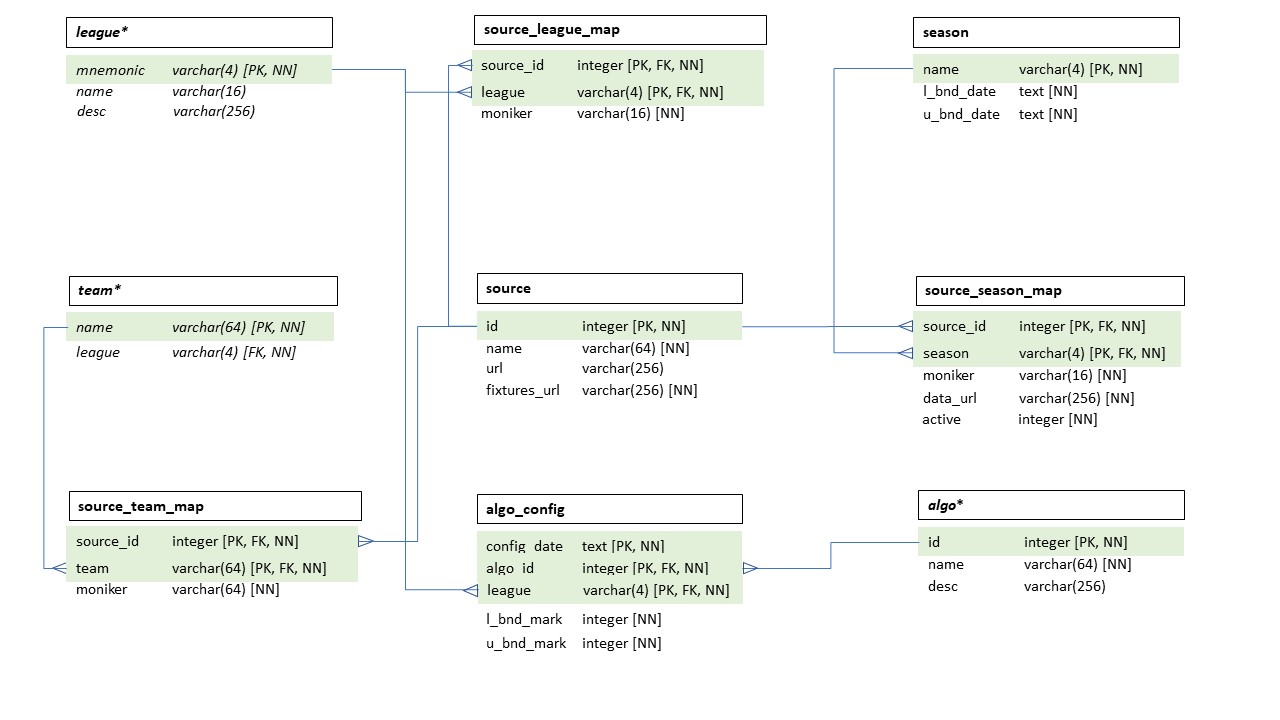
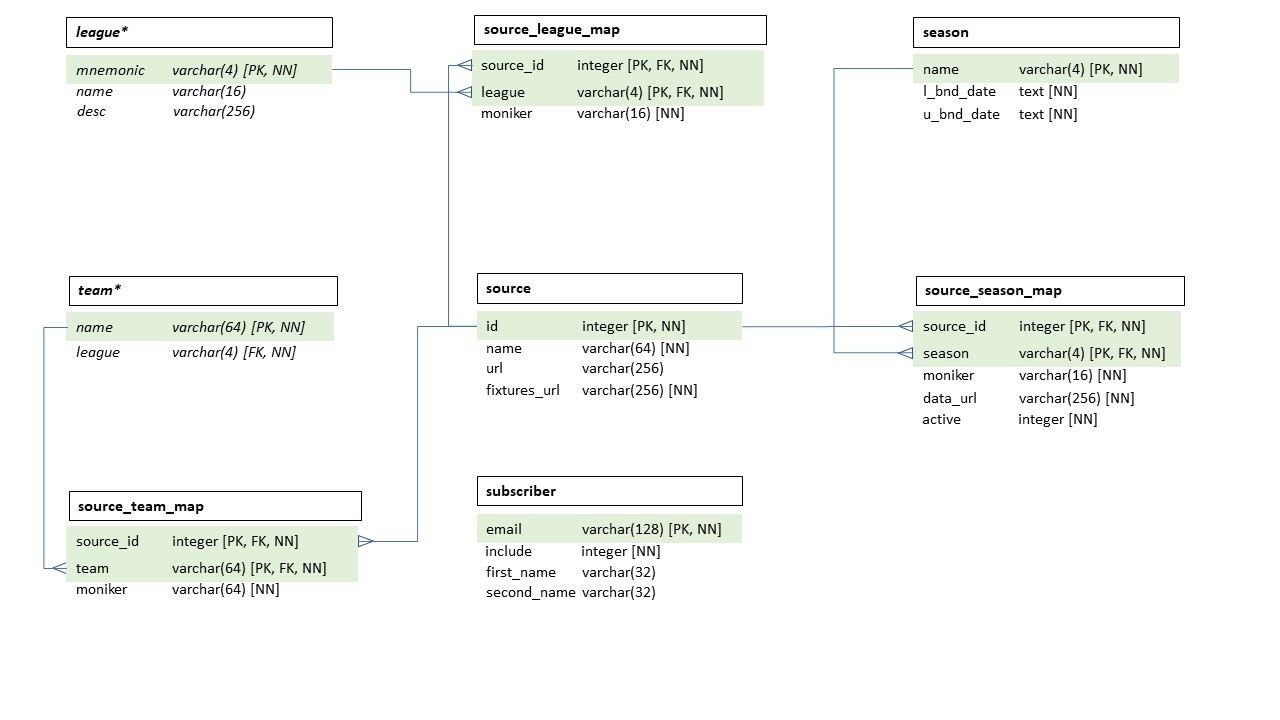
Added subscriber table and change mailing

Changed region(s): [[0.3438, 0.6722, 0.5938, 0.9167], [0.7188, 0.6722, 0.9375, 0.825]]

diff --git a/sweeper/dbos/tests/test_subscriber.py b/sweeper/dbos/tests/test_subscriber.py
@@ -1,0 +1,179 @@
+# coding: utf-8
+
+import os
+from datetime import datetime
+from unittest import TestCase
+from unittest.mock import MagicMock, call
+from dataclasses import FrozenInstanceError
+from sweeper.dbos.subscriber import Subscriber, SubscriberKeys, SubscriberValues
+from shimbase.database import Database, AdhocKeys
+from shimbase.sqlite3impl import SQLite3Impl
+
+class TestSubscriber(TestCase):
+    """Subscriber object tests"""
+    db = None
+
+    @classmethod
+    def setUpClass(cls):
+        createName = 'c:/Users/Mach1/Documents/Projects/sweeper/db/createdb.sql'
+        testDataName = 'c:/Users/Mach1/Documents/Projects/sweeper/db/dbos/' + '*_data.sql' 
+        dbName = './db/test.db'
+        os.system('cat {} | sqlite3 {}'.format(createName, dbName))
+        os.system('cat {} | sqlite3 {}'.format(testDataName, dbName))
+        cls.db = Database(dbName, SQLite3Impl())
+
+    @classmethod
+    def tearDownClass(cls):
+        cls.db.close()
+
+    def setUp(self):
+        pass
+
+    def tearDown(self):
+        pass
+
+    def test_keys_Immutablility(self):
+        keys =SubscriberKeys('subscriber email TD')
+
+        with self.assertRaises(FrozenInstanceError) as cm:
+            keys.email = 'Something New'
+            
+        self.assertIn('cannot assign to field', cm.exception.args[0])
+
+    def test_keys_adhoc(self):
+        l = Subscriber.createAdhoc(None)
+        self.assertEqual(l.getTable(), 'subscriber')
+        self.assertTrue(l._keys.getFields() is None)
+
+    def test_create(self):
+        obj = Subscriber.create(('subscriber email TD', 98, 'subscriber first_name TD', 'subscriber second_name TD'))
+
+        self.assertEqual(obj.getEmail(), 'subscriber email TD')
+         
+        self.assertEqual(obj.getInclude(), 98)
+        self.assertEqual(obj.getFirst_Name(), 'subscriber first_name TD')
+        self.assertEqual(obj.getSecond_Name(), 'subscriber second_name TD')
+         
+
+    def test_repr(self):
+        obj = Subscriber('subscriber email TD', 98, 'subscriber first_name TD', 'subscriber second_name TD')
+        self.assertEqual(str(obj), "subscriber : Keys {'email': 'subscriber email TD'} : Values {'include': 98, 'first_name': 'subscriber first_name TD', 'second_name': 'subscriber second_name TD'}")
+
+    def test_select(self):
+        objs = TestSubscriber.db.select(Subscriber())
+        self.assertEqual(len(objs), 2)
+        self.assertEqual(objs[0].getEmail(), 'subscriber email TD')
+        
+        self.assertEqual(objs[0].getInclude(), 98)
+        self.assertEqual(objs[0].getFirst_Name(), 'subscriber first_name TD')
+        self.assertEqual(objs[0].getSecond_Name(), 'subscriber second_name TD')
+        
+        self.assertEqual(objs[1].getEmail(), 'subscriber email TD2')
+        
+        self.assertEqual(objs[1].getInclude(), 99)
+        self.assertEqual(objs[1].getFirst_Name(), 'subscriber first_name TD2')
+        self.assertEqual(objs[1].getSecond_Name(), 'subscriber second_name TD2')
+        
+        
+        objs = TestSubscriber.db.select(Subscriber('subscriber email TD'))
+        self.assertEqual(len(objs), 1)
+        self.assertEqual(objs[0].getEmail(), 'subscriber email TD')
+        
+        self.assertEqual(objs[0].getInclude(), 98)
+        self.assertEqual(objs[0].getFirst_Name(), 'subscriber first_name TD')
+        self.assertEqual(objs[0].getSecond_Name(), 'subscriber second_name TD')
+        
+
+        objs = TestSubscriber.db.select(Subscriber.createAdhoc({'include': 98, 'first_name': 'subscriber first_name TD', 'second_name': 'subscriber second_name TD'}))
+        self.assertEqual(len(objs), 1)
+        self.assertEqual(objs[0].getEmail(), 'subscriber email TD')
+        
+        self.assertEqual(objs[0].getInclude(), 98)
+        self.assertEqual(objs[0].getFirst_Name(), 'subscriber first_name TD')
+        self.assertEqual(objs[0].getSecond_Name(), 'subscriber second_name TD')
+        
+
+    def test_update(self):
+        # Disable Foreign Keys checks for this test
+        TestSubscriber.db.disableForeignKeys()
+
+        with TestSubscriber.db.transaction() as t:
+            TestSubscriber.db.upsert(
+                    Subscriber('subscriber email TD', 100, 'subscriber first_name TD UPD', 'subscriber second_name TD UPD'))
+            objs = TestSubscriber.db.select(Subscriber('subscriber email TD'))
+
+            self.assertEqual(len(objs), 1)
+            self.assertEqual(objs[0].getEmail(), 'subscriber email TD')
+            
+
+            d = eval("{'include': 100, 'first_name': 'subscriber first_name TD UPD', 'second_name': 'subscriber second_name TD UPD'}")
+            for k, v in d.items():
+                self.assertEqual(
+                        objs[0].__getattribute__('get' + k.title())(), v)
+
+            # force a rollback
+            t.fail()
+
+        with TestSubscriber.db.transaction() as t:
+            subscriber = TestSubscriber.db.select(Subscriber('subscriber email TD'))[0]
+            for k, v in d.items():
+                subscriber.__getattribute__('set' + k.title())(v)
+
+            TestSubscriber.db.upsert(subscriber)
+
+            objs = TestSubscriber.db.select(Subscriber('subscriber email TD'))
+            self.assertEqual(len(objs), 1)
+            self.assertEqual(objs[0].getEmail(), 'subscriber email TD')
+            
+
+            for k, v in d.items():
+                self.assertEqual(
+                        objs[0].__getattribute__('get' + k.title())(), v)
+
+            # force a rollback
+            t.fail()
+
+    def test_insert(self):
+        # Disable Foreign Keys checks for this test
+        TestSubscriber.db.disableForeignKeys()
+
+        with TestSubscriber.db.transaction() as t:
+            TestSubscriber.db.upsert(
+                    Subscriber('subscriber email TD INS', 100, 'subscriber first_name TD UPD', 'subscriber second_name TD UPD'))
+            objs = TestSubscriber.db.select(Subscriber())
+
+            self.assertEqual(len(objs), 3)
+
+            d = eval("{'email': 'subscriber email TD INS'}")
+            for k, v in d.items():
+                self.assertEqual(
+                        objs[2].__getattribute__('get' + k.title())(), v)
+
+            d = eval("{'include': 100, 'first_name': 'subscriber first_name TD UPD', 'second_name': 'subscriber second_name TD UPD'}")
+            for k, v in d.items():
+                self.assertEqual(
+                        objs[2].__getattribute__('get' + k.title())(), v)
+
+            # force a rollback
+            t.fail()
+
+    def test_delete(self):
+        # Disable Foreign Keys checks for this test
+        TestSubscriber.db.disableForeignKeys()
+
+        with TestSubscriber.db.transaction() as t:
+            TestSubscriber.db.delete(Subscriber('subscriber email TD'))
+
+            objs = TestSubscriber.db.select(Subscriber())
+            self.assertEqual(len(objs), 1)
+
+            # force a rollback
+            t.fail()
+
+    def test_isNullable(self):
+        obj = Subscriber()
+        self.assertTrue(True and obj.isNullable('first_name') and obj.isNullable('second_name')) 
+
+if __name__ == '__main__':
+    import unittest
+    unittest.main()

diff --git a/sweeper/dbos/subscriber.py b/sweeper/dbos/subscriber.py
@@ -1,0 +1,161 @@
+from dataclasses import dataclass
+from shimbase.database import DatabaseObject, DatabaseKeys, DatabaseValues, AdhocKeys
+
+@dataclass(frozen=True)
+class SubscriberKeys(DatabaseKeys):
+    '''
+    subscriber database object primary key representation
+    '''
+    email:str = None
+    
+
+    def __init__(self, email:str):
+        '''
+        Construct the object from the provided primary key fields
+        
+        :param ...: typed primary key fields
+        '''
+        # Need to use setattr as the class is Frozen (immutable)
+        object.__setattr__(self, 'email', email)
+        
+        super().__init__(self.getFields())
+
+    def getFields(self):
+        '''
+        Get all the PK fields for this object in a dictionary form
+        
+        :returns: a dictionary of all SubscriberKeys fields
+        '''
+        fields = {} if None in (self.email,) else {'email' : self.email}
+        return fields
+        
+class SubscriberValues(DatabaseValues):
+    '''
+    subscriber database object values representation
+    '''
+    def __init__(self, include:int, first_name:str = None, second_name:str = None):
+        '''
+        Construct the object from the provided value fields
+        
+        :param ...: typed value fields
+        '''
+        object.__setattr__(self, 'include', include)
+        object.__setattr__(self, 'first_name', first_name)
+        object.__setattr__(self, 'second_name', second_name)
+        
+        super().__init__(self.getFields())
+
+    def getFields(self):
+        '''
+        Get all the value fields for this object in a dictionary form
+        
+        :returns: a dictionary of all SubscriberValues fields
+        '''
+        fields = {'include' : self.include, 'first_name' : self.first_name, 'second_name' : self.second_name}
+        return fields
+        
+class Subscriber(DatabaseObject):
+    '''
+    subscriber database object representation
+    '''
+
+    @classmethod
+    def createAdhoc(cls, fields:dict={}, order:tuple=None):
+        '''
+        Class method to create a database object with the provided adhoc 
+        dictionary of fields
+
+        :param fields: a dictionary of fields
+        :param order: a tuple of fields to order by, if prepended with '>' or \
+                      '<' then desc or asc
+        :returns: Subscriber object constructed via an AdhocKey of fields
+        '''
+        l = Subscriber()
+        l._keys = AdhocKeys(fields, order) 
+        return l
+
+    def _createAdhoc(self, fields:dict={}, order:tuple=None):
+        '''
+        Private instance method to create a database object with the 
+        provided adhoc fields
+
+        :param fields: a dictionary of fields
+        :param order: a tuple of fields to order by, if prepended with '>' or \
+                      '<' then desc or asc
+        :returns: Subscriber object constructed via an AdhocKey of fields
+        '''
+        return Subscriber.createAdhoc(fields, order)
+
+    @classmethod
+    def create(cls, row:tuple):
+        '''
+        Class method to create a database object from the provided database row
+
+        :param row: a list of values representing the objects key and values
+        :returns: a Subscriber object constructed from row
+        '''
+        email, include, first_name, second_name = row
+        return Subscriber(email, include, first_name, second_name)
+
+    def _create(self, row:tuple):
+        '''
+        Private instance method to create a database object from the provided 
+        database row
+
+        :param row: a list of values representing the objects key and values
+        :returns: a Subscriber object constructed from row
+        '''
+        return Subscriber.create(row)
+
+    def __init__(self, email:str = None, include:int = None, first_name:str = None, second_name:str = None):
+        '''
+        Construct the object from the provided key and value fields
+        
+        :param ...: typed key and value fields
+        :returns: N/A
+        :raises: None
+        '''
+        keys = SubscriberKeys(email)
+        vals = SubscriberValues(include, first_name, second_name)
+
+        super().__init__('subscriber', keys, vals)
+
+    def getTable(self):
+        return self._table
+
+    def getEmail(self):
+        return self._keys.email
+    
+    
+    def getInclude(self):
+        return self._vals.include
+    
+    def getFirst_Name(self):
+        return self._vals.first_name
+    
+    def getSecond_Name(self):
+        return self._vals.second_name
+    
+    
+    def setInclude(self, include:int):
+       self._vals.include = include
+    
+    def setFirst_Name(self, first_name:str):
+       self._vals.first_name = first_name
+    
+    def setSecond_Name(self, second_name:str):
+       self._vals.second_name = second_name
+    
+    
+
+    def isNullable(self, field):
+        if field == 'first_name':
+            return True
+        elif field == 'second_name':
+            return True
+        
+        return False
+
+    def __repr__(self):
+        return self._table + ' : Keys ' + str(self._keys.getFields()) + \
+                ' : Values ' + str(self._vals.getFields())

diff --git a/presentfixtures.py b/presentfixtures.py
@@ -15,6 +15,7 @@ from sweeper.dbos.match import Match
 from sweeper.dbos.rating import Rating
 from sweeper.dbos.season import Season
 from sweeper.dbos.statistics import Statistics
+from sweeper.dbos.subscriber import Subscriber
 
 def presentFixtures(log:Logger, algoId:int, date:str, league:str=None, \
         show:bool=False, mail:bool=False):
@@ -166,13 +167,13 @@ def presentFixtures(log:Logger, algoId:int, date:str, league:str=None, \
             mailText = 'MIME-Version: 1.0\nContent-type: text/html\nSubject: Sweeper Football Predictions\n\n{}</body>'.format(mailText)
             mailCfg = getSweeperConfig('mail.cfg')
             fromAddr = mailCfg['fromAddr']
-            toAddrs = eval(mailCfg['toAddrs'])
+            subs = db.select(Subscriber.createAdhoc({'include' : 1}))
+            toAddrs = [s.getEmail() for s in subs]
             server = smtplib.SMTP(mailCfg['svr'], int(mailCfg['port']))
             server.ehlo()
             server.starttls()
             server.ehlo()
             server.login(fromAddr, mailCfg['pwd'])
-            server.sendmail(fromAddr, toAddrs, mailText)
             server.quit()
             log.info('email sent to: {!s}'.format(toAddrs))
 
